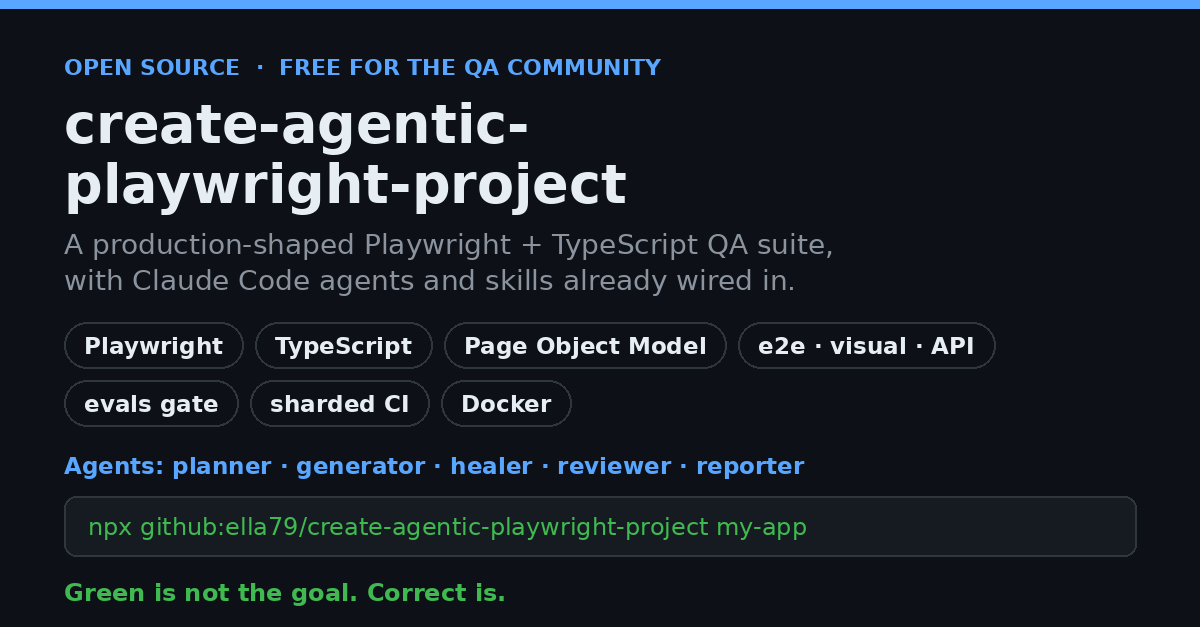
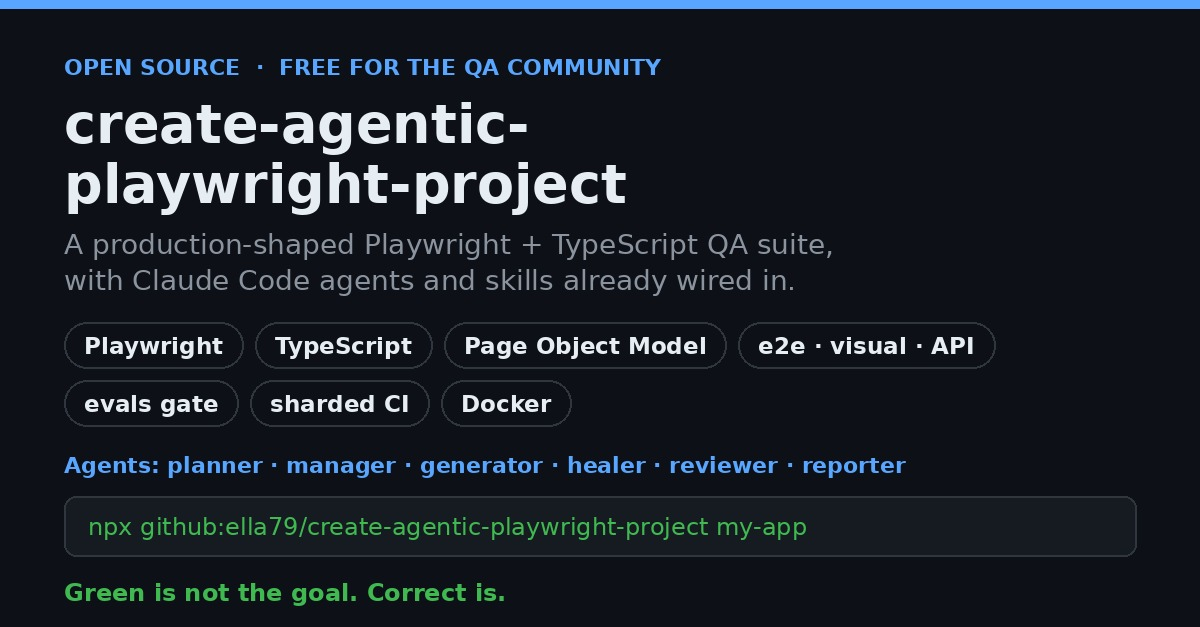
Add manager to the create-agentic-playwright-project card (#26)
* Add manager to agents on the create-agentic-playwright-project card

Refresh the launch card image and the 'Just shipped' description so both
list the manager agent: planner, manager, generator, healer, reviewer, reporter.

* Bust cache on the refreshed reads card image

Add a version query to the create-agentic-playwright-project card image so
browsers and the Pages CDN fetch the updated (manager) version instead of the
cached one, and update the smoke assertion to match.

---------

diff --git a/index.html b/index.html
@@ -209,7 +209,7 @@
       <article class="card rv">
         <span class="kicker">Just shipped</span>
         <h3>create-agentic-playwright-project</h3>
-        <p>A free, open-source scaffolder for a Playwright and TypeScript QA project with the architecture already defined: Page Object Model, fixtures, e2e / visual / API, an evals gate, sharded CI and Docker. The Claude Code agents (planner, generator, healer, reviewer, reporter) and skills come already wired into the workflow. One command, and you start from a real structure instead of a blank page.</p>
+        <p>A free, open-source scaffolder for a Playwright and TypeScript QA project with the architecture already defined: Page Object Model, fixtures, e2e / visual / API, an evals gate, sharded CI and Docker. The Claude Code agents (planner, manager, generator, healer, reviewer, reporter) and skills come already wired into the workflow. One command, and you start from a real structure instead of a blank page.</p>
         <a href="https://github.com/ella79/create-agentic-playwright-project">github.com/ella79/create-agentic-playwright-project ↗</a>
       </article>
     </div>

diff --git a/assets/js/home.js b/assets/js/home.js
@@ -137,7 +137,7 @@ const SKILLS = [
 /* LinkedIn articles, newest first */
 const READS = [
   {title:"I packaged my QA architecture into one free command", date:"2026-10-01", mins:2,
-   img:"assets/img/article-agentic-project.jpg",
+   img:"assets/img/article-agentic-project.jpg?v=2026100101",
    excerpt:"create-agentic-playwright-project scaffolds a full Playwright + TypeScript QA suite with Claude Code agents and skills already wired into the workflow. Free, one command.",
    url:"https://www.linkedin.com/feed/update/urn:li:activity:7511193169934331904/"},
   {title:"green ≠ correct: what self-healing tests don't tell you", date:"2026-09-30", mins:2,

diff --git a/tests/smoke.spec.ts b/tests/smoke.spec.ts
@@ -171,7 +171,7 @@ test.describe('home page', () => {
     await expect(cards).toHaveCount(3);
     // newest first
     await expect(cards.first()).toHaveAttribute('href', /linkedin\.com\//);
-    await expect(cards.first().locator('img')).toHaveAttribute('src', 'assets/img/article-agentic-project.jpg');
+    await expect(cards.first().locator('img')).toHaveAttribute('src', 'assets/img/article-agentic-project.jpg?v=2026100101');
     // every card points at LinkedIn
     for (const href of await cards.evaluateAll((els) => els.map((e) => e.getAttribute('href')))) {
       expect(href).toMatch(/linkedin\.com\//);
